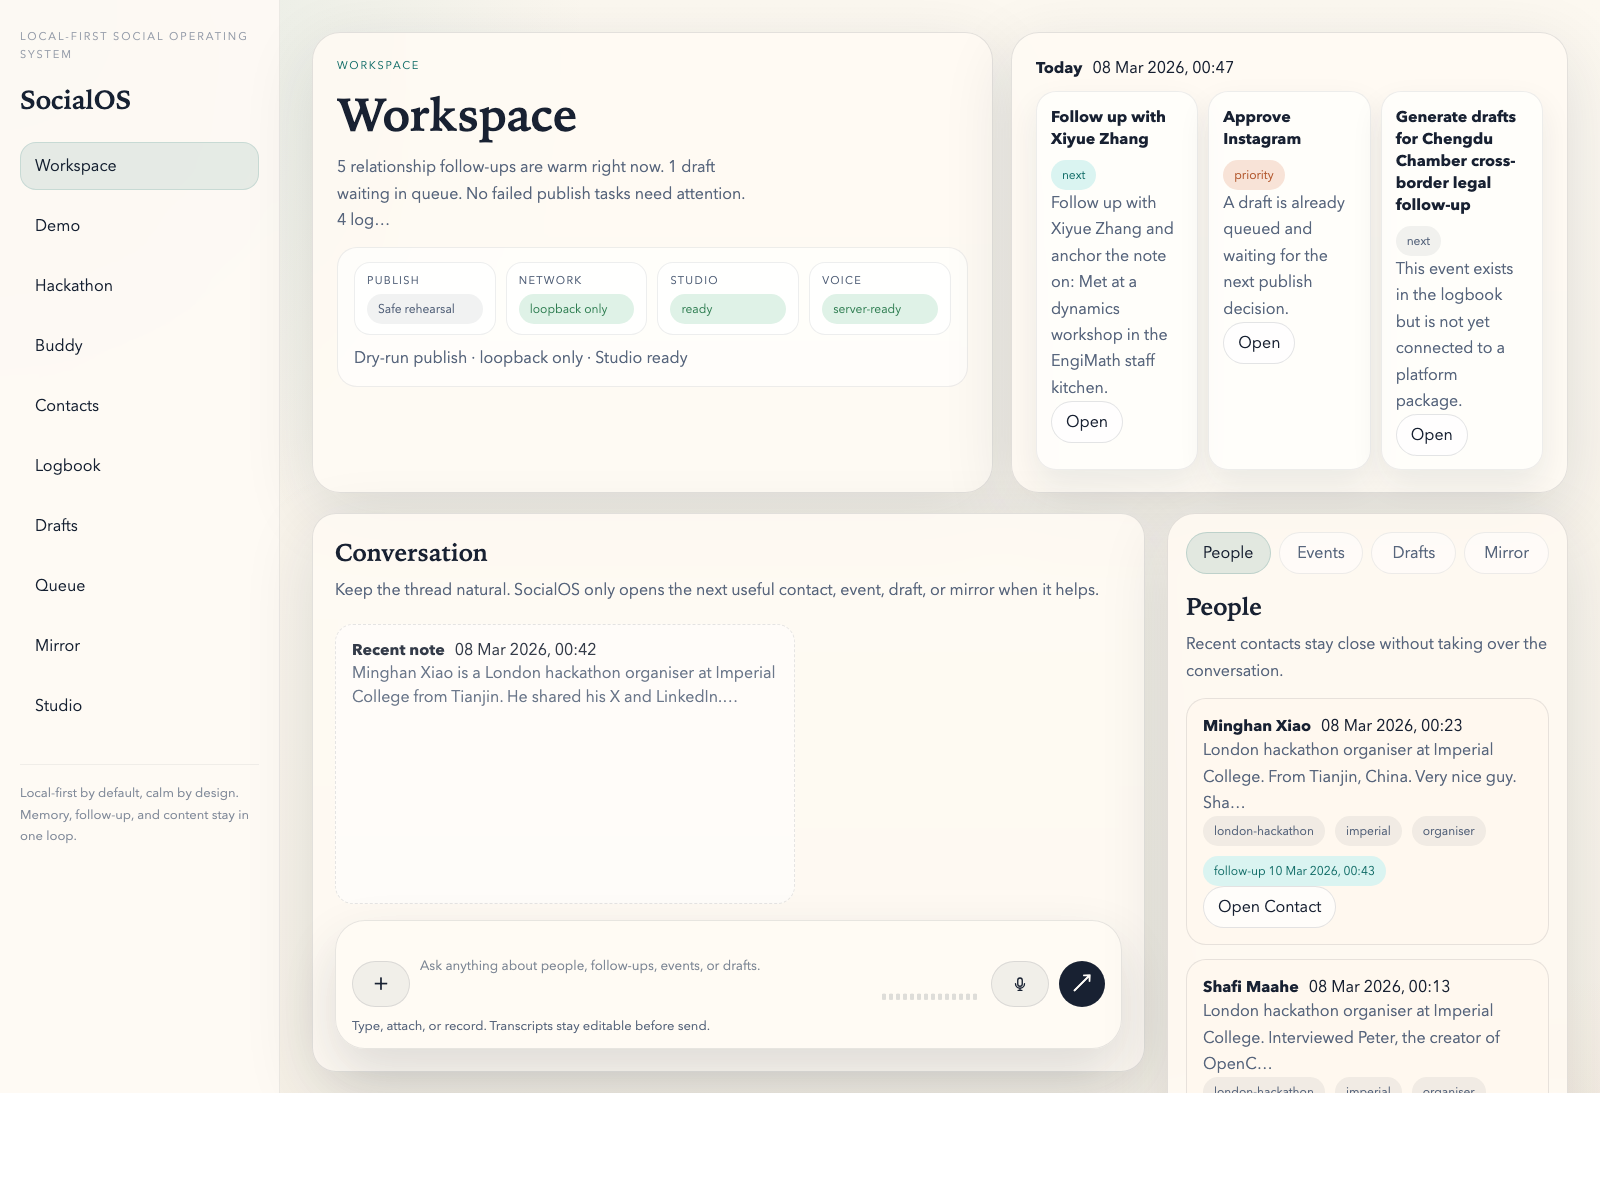
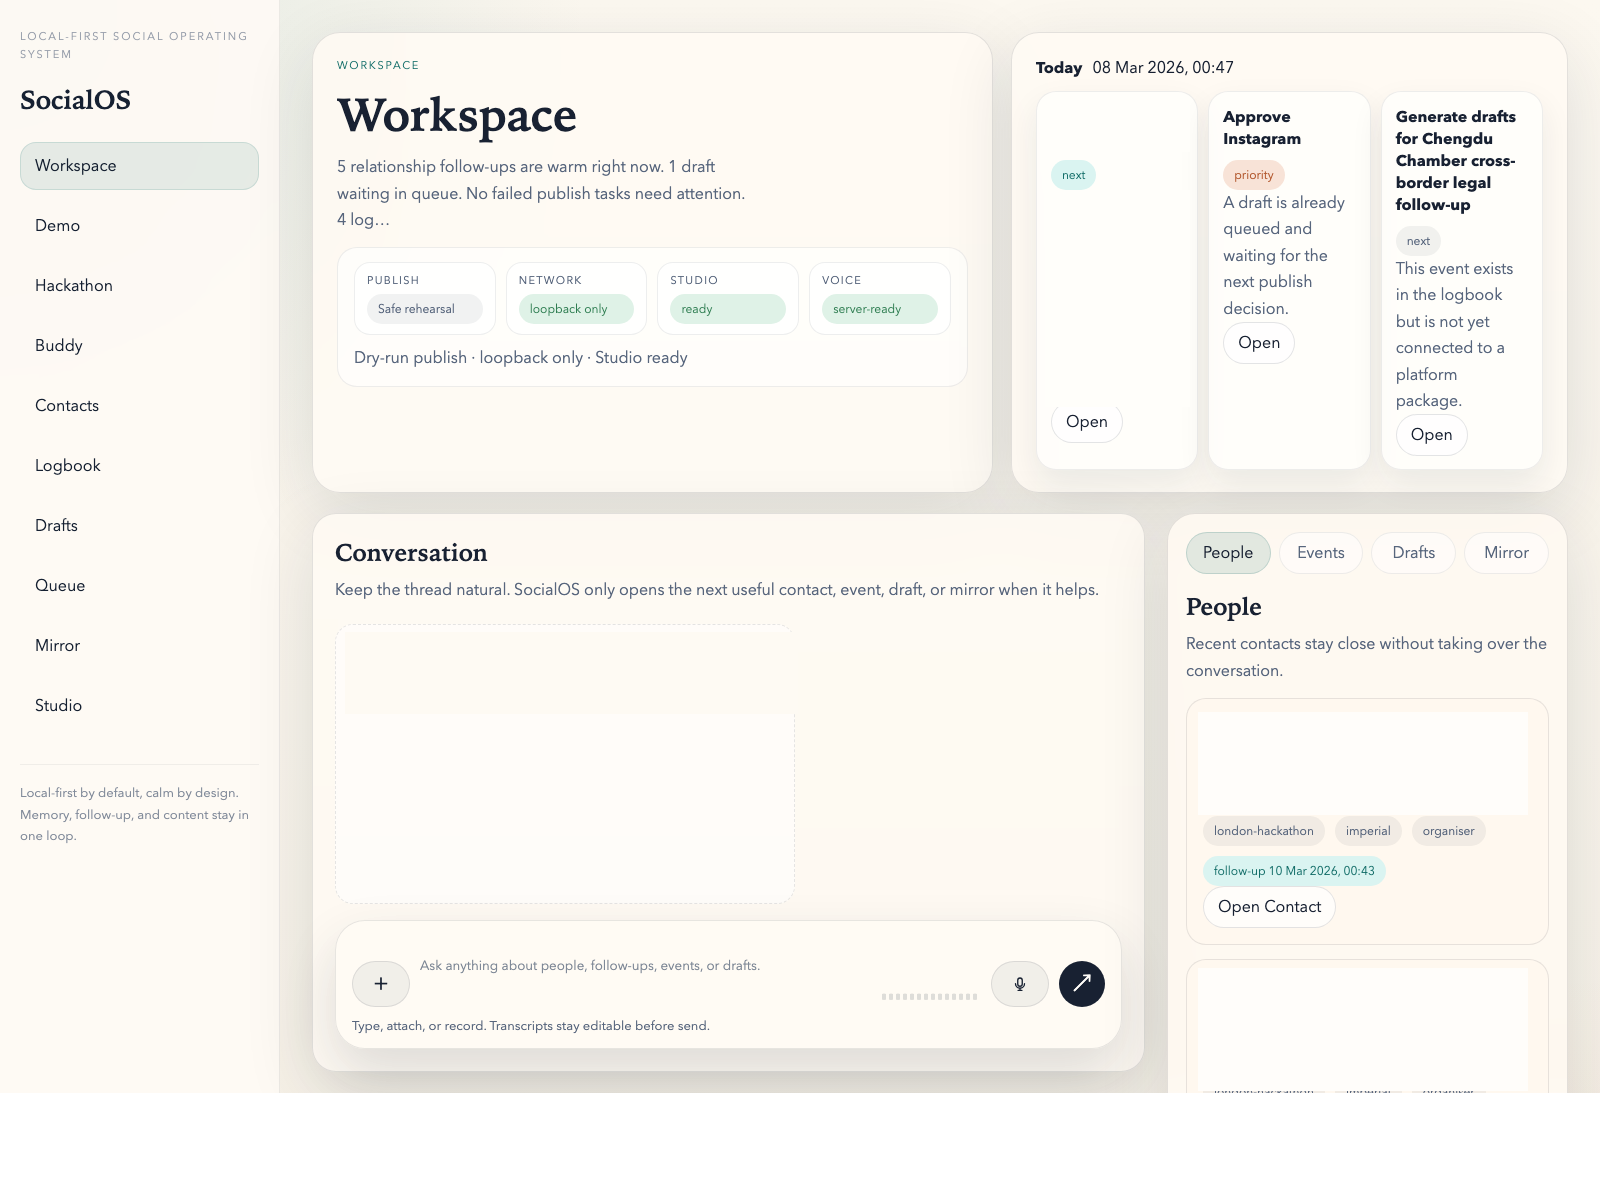
README: redact names in the Workspace screenshot; plainer architecture wording; gloss track and provider names

diff --git a/README.md b/README.md
@@ -2,13 +2,13 @@
 
 SocialOS turns raw notes, voice memos, screenshots and encounters into structured memory about people and events, reflections grounded in that memory, and drafts for each platform. Nothing is published until a person approves it in the queue. It runs on your own machine (a local web app, a local API and a SQLite database) and works without any API keys; model providers are optional.
 
-It was built for the UK AI Agent Hack EP4 (Imperial College London, opened 1 March 2026); the build itself took five days, 5–9 March, and the project was entered in five DoraHacks bounty tracks. The whole build is in the history: 1,222 commits between 5 and 9 March 2026, 1,084 of them tagged `[autodev]` — commits made by the automated coding agents set up for that week. Development stopped on 9 March 2026; later commits only add a licence and repair the public site's links, wording and phone layout. Read it as a working hackathon prototype, not a maintained product; issues and pull requests are not monitored.
+It was built for the UK AI Agent Hack EP4 (Imperial College London, opened 1 March 2026); the build itself took five days, 5–9 March, and the project was entered in five DoraHacks bounty tracks. The whole build is in the history: 1,222 commits between 5 and 9 March 2026, 1,084 of them tagged `[autodev]` — commits made by the automated coding agents set up for that week. Development stopped on 9 March 2026; later commits add a licence, repair the public site, and tidy the README and archive notes. No feature work since. Read it as a working hackathon prototype, not a maintained product; issues and pull requests are not monitored.
 
 By Xiaoxiao Zhouyi · [zhouyixiaoxiao.com](https://zhouyixiaoxiao.com/)
 
 ![SocialOS Workspace](socialos/docs/evidence/socialos-demo-step01.png)
 
-*The Workspace with the seeded demo data: one note in, people memory and platform drafts out; nothing is posted until you approve it.*
+*The Workspace with seeded demo data; personal names and remarks are redacted in this public preview: one note in, people memory and platform drafts out; nothing is posted until you approve it.*
 
 ## See it
 
@@ -16,7 +16,7 @@ The public site keeps the entry's content unchanged, with its links repaired:
 
 - [Pitch deck](https://zhouyi-xiaoxiao.github.io/openclaw-foundry-socialos/)
 - [Bounty hub](https://zhouyi-xiaoxiao.github.io/openclaw-foundry-socialos/hackathon/): one section per track, with its integration and proof JSON
-- Demo videos, one per track: [Claw for Human](https://zhouyi-xiaoxiao.github.io/openclaw-foundry-socialos/videos/claw-for-human/) · [Human for Claw](https://zhouyi-xiaoxiao.github.io/openclaw-foundry-socialos/videos/human-for-claw/) · [Z.AI General](https://zhouyi-xiaoxiao.github.io/openclaw-foundry-socialos/videos/z-ai-general/) · [AI Agents for Good](https://zhouyi-xiaoxiao.github.io/openclaw-foundry-socialos/videos/ai-agents-for-good/) · [Animoca](https://zhouyi-xiaoxiao.github.io/openclaw-foundry-socialos/videos/animoca/)
+- Demo videos, one per track: [Claw for Human (relationship workspace)](https://zhouyi-xiaoxiao.github.io/openclaw-foundry-socialos/videos/claw-for-human/) · [Human for Claw (safe social tasks)](https://zhouyi-xiaoxiao.github.io/openclaw-foundry-socialos/videos/human-for-claw/) · [Z.AI General](https://zhouyi-xiaoxiao.github.io/openclaw-foundry-socialos/videos/z-ai-general/) · [AI Agents for Good](https://zhouyi-xiaoxiao.github.io/openclaw-foundry-socialos/videos/ai-agents-for-good/) · [Animoca](https://zhouyi-xiaoxiao.github.io/openclaw-foundry-socialos/videos/animoca/)
 - [Architecture](socialos/docs/ARCHITECTURE.md), [evidence](socialos/docs/EVIDENCE.md) and the [five-minute pitch](socialos/docs/pitch/PITCH_5_MIN.md)
 
 The site is read-only. The interactive product is not hosted anywhere; it runs locally, as below.
@@ -48,8 +48,8 @@ Prerequisites: macOS or Linux, Node 22+, `sqlite3`, and `python3`.
 ### What API keys unlock
 
 - `OPENAI_API_KEY` -> better embeddings plus optional voice transcription/refinement
-- `GLM_API_KEY` -> live Z.AI route and GLM-backed generation
-- `FLOCK_API_KEY` -> live SDG triage
+- `GLM_API_KEY` -> live Z.AI route and GLM (Z.AI's language model) generation
+- `FLOCK_API_KEY` -> live FLock (a model provider) SDG (UN Sustainable Development Goals) triage
 - `TELEGRAM_*` -> optional Telegram volunteer channel for multi-channel follow-through
 
 Provider setup: [socialos/docs/API_SETUP.md](socialos/docs/API_SETUP.md).
@@ -67,17 +67,17 @@ What the prototype does:
 
 Core system shape:
 
-- Frontend: loopback-only Node web app in `socialos/apps/web`
-- API: loopback-only Node service in `socialos/apps/api`
+- Frontend: local web app in `socialos/apps/web`
+- API: local service in `socialos/apps/api`
 - Database: profile-managed SQLite under `infra/db/`
-- Runtime: OpenClaw product profile in `socialos/openclaw/runtime.openclaw.json5`
+- Runtime: OpenClaw (the product runtime coordinating memory, safety checks, publishing, and reflection) in `socialos/openclaw/runtime.openclaw.json5`
 - Control plane: Studio task, run, agent, and policy layer in SQLite and `foundry/`
 
 System design:
 
 1. A user sends one raw note, voice memo, or image into `Workspace`.
-2. The API extracts reusable people memory, event context, and self signals.
-3. The same memory powers `Contacts`, `Logbook`, and fuzzy recall.
+2. The API extracts reusable people memory, event context, and your own check-ins.
+3. The same memory powers `Contacts`, `Logbook`, and search that can find related notes even when wording differs.
 4. Events flow into multilingual, platform-native draft generation.
 5. Drafts move through validation and a queue until you approve them.
 6. `Self Mirror` closes the loop with a weekly reflection that cites the notes it came from.
@@ -107,11 +107,11 @@ SocialOS was entered in five tracks with one product story:
 
 High-level fit:
 
-- `Claw for Human`: SocialOS turns OpenClaw-backed lanes into a calm, human-readable relationship workspace.
+- `Claw for Human`: SocialOS turns the OpenClaw runtime into a calm, human-readable relationship workspace.
 - `Animoca Bounty`: SocialOS keeps identity and memory across sessions and coordinates several agents, rather than running one-shot tasks.
 - `Human for Claw`: Buddy mode narrows the system to four safe, youth-friendly social tasks.
 - `Z.AI General`: when `GLM_API_KEY` is set, GLM generates the platform drafts in the main draft path.
-- `AI Agents for Good`: FLock SDG triage, OpenClaw orchestration, and Telegram-powered multi-channel follow-through feed directly into relationship memory.
+- `AI Agents for Good`: FLock's SDG triage, the OpenClaw runtime, and Telegram-powered follow-through feed directly into relationship memory.
 
 Full submission source text lives in [socialos/docs/HACKATHON_BOUNTIES.md](socialos/docs/HACKATHON_BOUNTIES.md).
 
